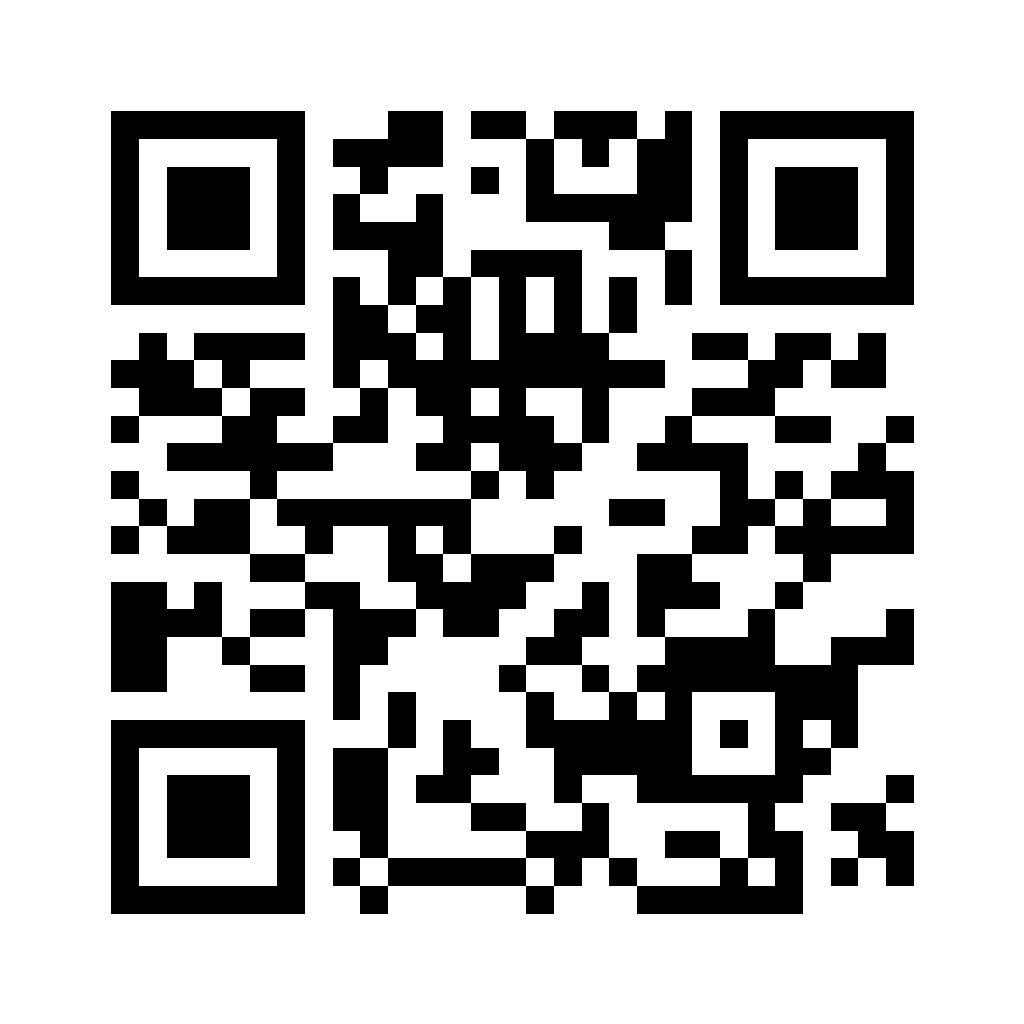
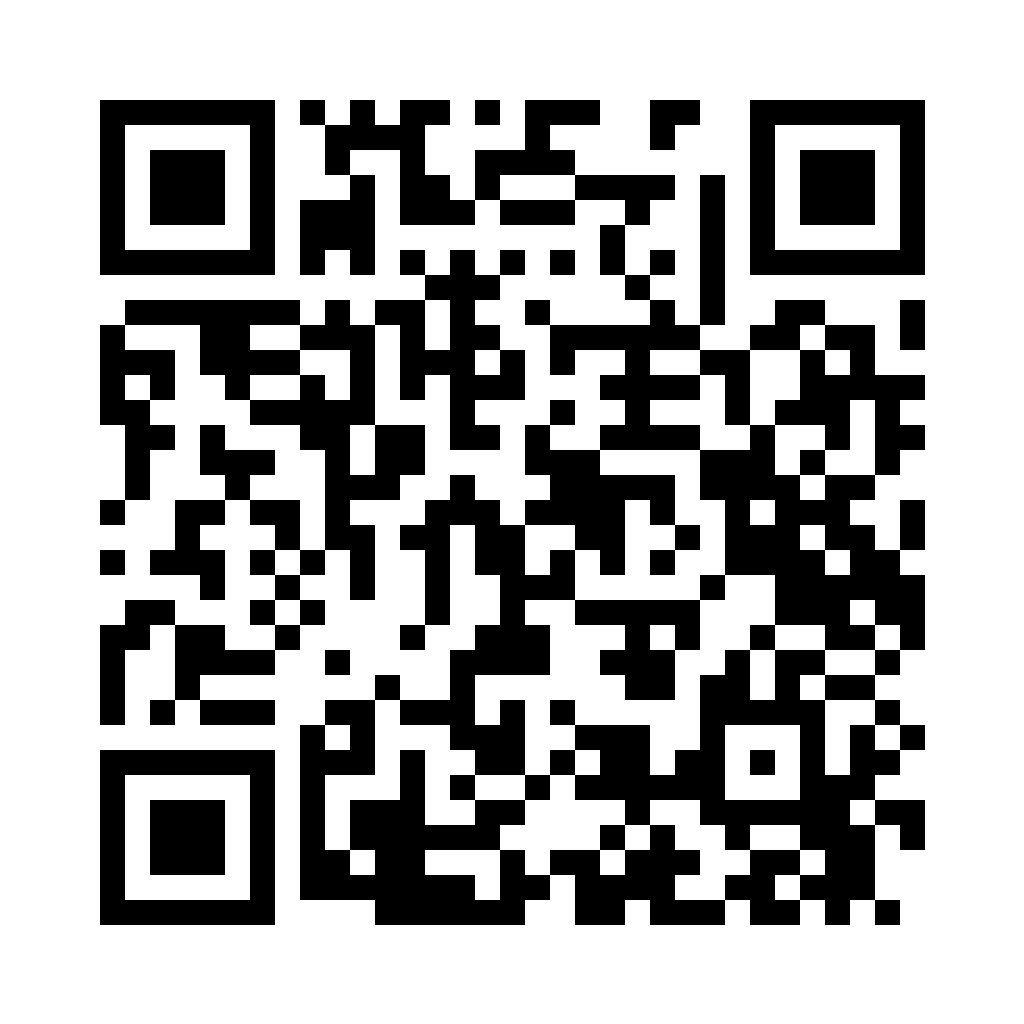
Production domain universe-with-log.vercel.app for QR and README; team note

diff --git a/scripts/qr.ts b/scripts/qr.ts
@@ -1,13 +1,13 @@
 /**
  * qr.png (1024×1024) в корень репозитория — для слайдов — и проверка декодированием.
- *   node scripts/qr.ts [https://адрес]   (по умолчанию — VERCEL_PROJECT_PRODUCTION_URL или log-universe.vercel.app)
+ *   node scripts/qr.ts [https://адрес]   (по умолчанию — SITE_HOST, VERCEL_PROJECT_PRODUCTION_URL или universe-with-log.vercel.app)
  */
 import QRCode from 'qrcode';
 import jsQR from 'jsqr';
 import { PNG } from 'pngjs';
 import { readFileSync } from 'node:fs';
 
-const url = process.argv[2] ?? `https://${process.env.VERCEL_PROJECT_PRODUCTION_URL || 'log-universe.vercel.app'}`;
+const url = process.argv[2] ?? `https://${process.env.SITE_HOST || process.env.VERCEL_PROJECT_PRODUCTION_URL || 'universe-with-log.vercel.app'}`;
 await QRCode.toFile('qr.png', url, { type: 'png', width: 1024, margin: 4, errorCorrectionLevel: 'Q', color: { dark: '#000000ff', light: '#ffffffff' } });
 const png = PNG.sync.read(readFileSync('qr.png'));
 const res = jsQR(new Uint8ClampedArray(png.data), png.width, png.height);

diff --git a/vite.config.ts b/vite.config.ts
@@ -2,10 +2,10 @@ import { defineConfig, type Plugin } from 'vite';
 import QRCode from 'qrcode';
 
 /**
- * Адрес сайта для QR-кода. На Vercel при сборке задана VERCEL_PROJECT_PRODUCTION_URL
- * (production-домен проекта, без https://); локально — запасное значение.
+ * Адрес сайта для QR-кода. Порядок: SITE_HOST (переменная проекта на Vercel, если задана) →
+ * VERCEL_PROJECT_PRODUCTION_URL (Vercel задаёт при сборке) → постоянный адрес проекта.
  */
-export const SITE_HOST = process.env.VERCEL_PROJECT_PRODUCTION_URL || 'log-universe.vercel.app';
+export const SITE_HOST = process.env.SITE_HOST || process.env.VERCEL_PROJECT_PRODUCTION_URL || 'universe-with-log.vercel.app';
 export const SITE_URL = `https://${SITE_HOST}`;
 
 /** QR-код генерируется при сборке в SVG (чёткий на проекторе): коррекция Q, тихая зона 4 модуля. */

diff --git a/scripts/check-qr.ts b/scripts/check-qr.ts
@@ -7,7 +7,7 @@ import jsQR from 'jsqr';
 import { PNG } from 'pngjs';
 
 const url = process.argv[2] ?? 'http://localhost:5173/';
-const expected = process.argv[3] ?? 'https://log-universe.vercel.app';
+const expected = process.argv[3] ?? 'https://universe-with-log.vercel.app';
 const b = await chromium.launch({ args: ['--use-angle=d3d11', '--enable-gpu', '--ignore-gpu-blocklist'] });
 let ok = true;
 for (const [w, h, mobile] of [[1920, 1080, false], [1280, 720, false], [390, 844, true]] as const) {

diff --git a/README.md b/README.md
@@ -1,6 +1,6 @@
 # Our Place in the Stars
 
-**Live site: https://log-universe.vercel.app**
+**Live site: https://universe-with-log.vercel.app**
 
 > **Հայերեն.** Ինտերակտիվ ճամփորդություն մեծության 27 կարգերով՝ մարդուց (10⁰ մ) մինչև դիտարկելի Տիեզերքի եզրը (~10²⁷ մ)։ Ոլորումը լոգարիթմական քանոն է. յուրաքանչյուր բաժանում՝ ×10։ Դպրոցական նախագիծ «Լոգարիթմներ և աստղագիտություն» թեմայով։
 >
@@ -86,7 +86,7 @@ tests/       unit tests for facts, formulas and ephemerides
 
 ## Team
 
-A student team project for a mathematics and astronomy class.
+A student team project for a mathematics and astronomy class — and our first deep dive into **frontend development and motion design**: real-time WebGL, scroll-driven camera choreography, typographic animation and sound design, all in the service of telling one mathematical story. A genuinely interesting experience for all of us.
 
 ## Sources
 
